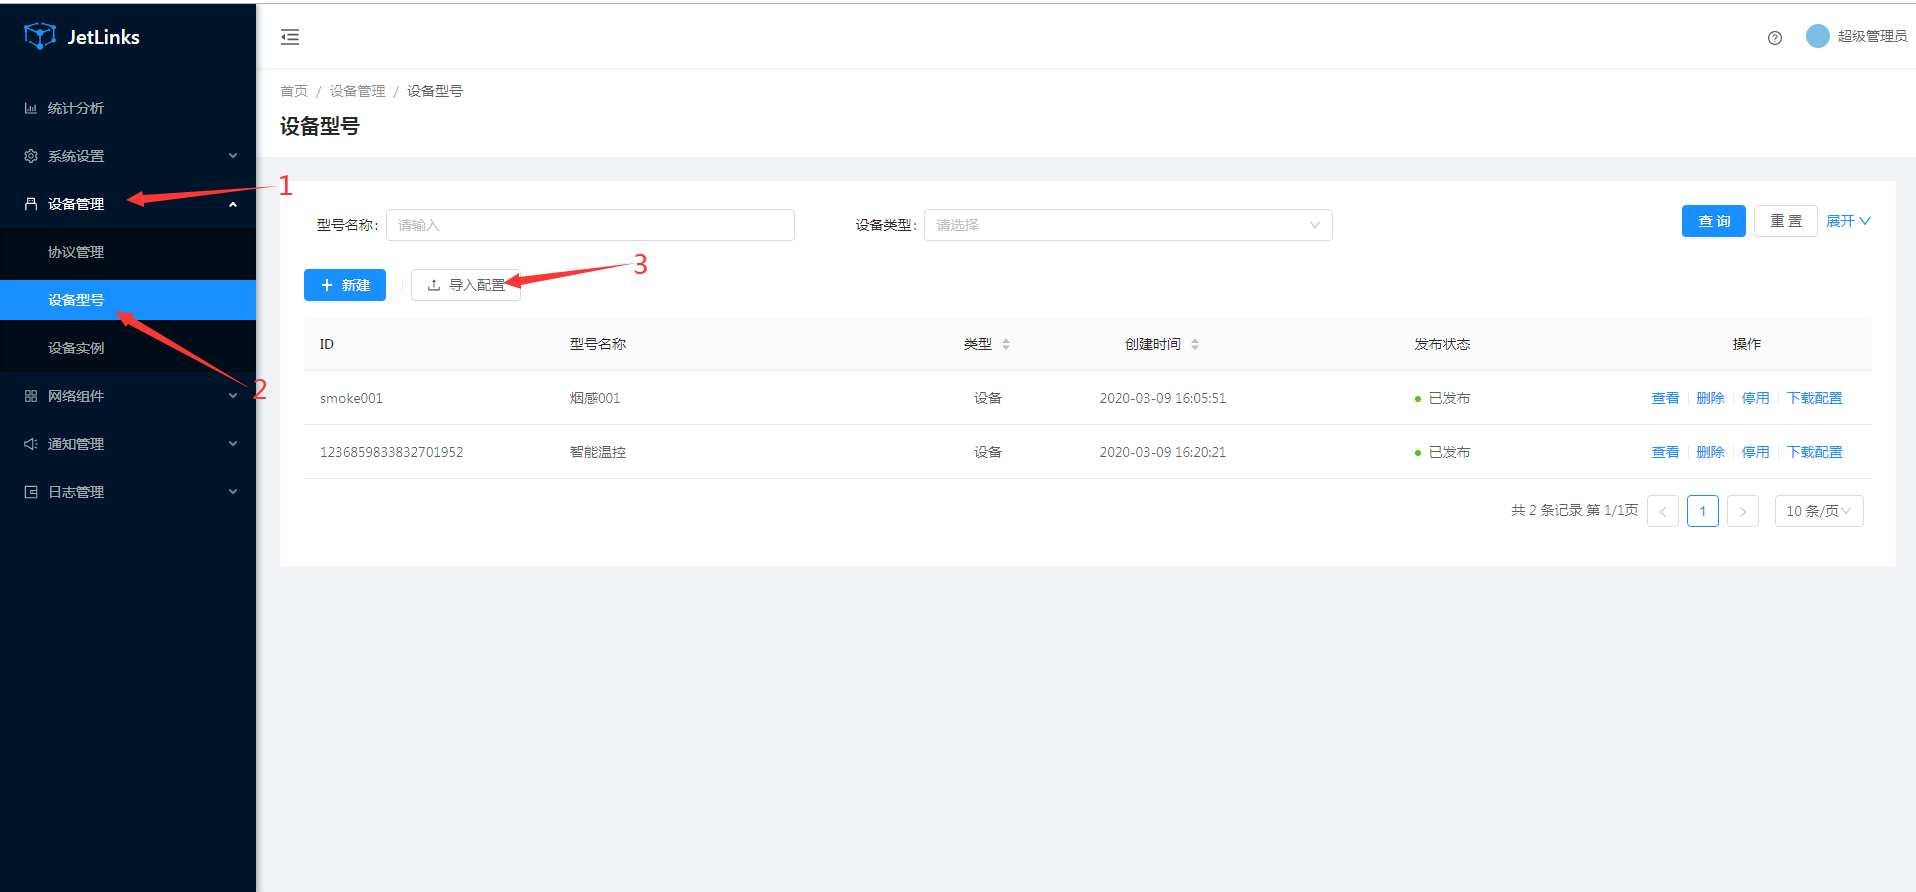
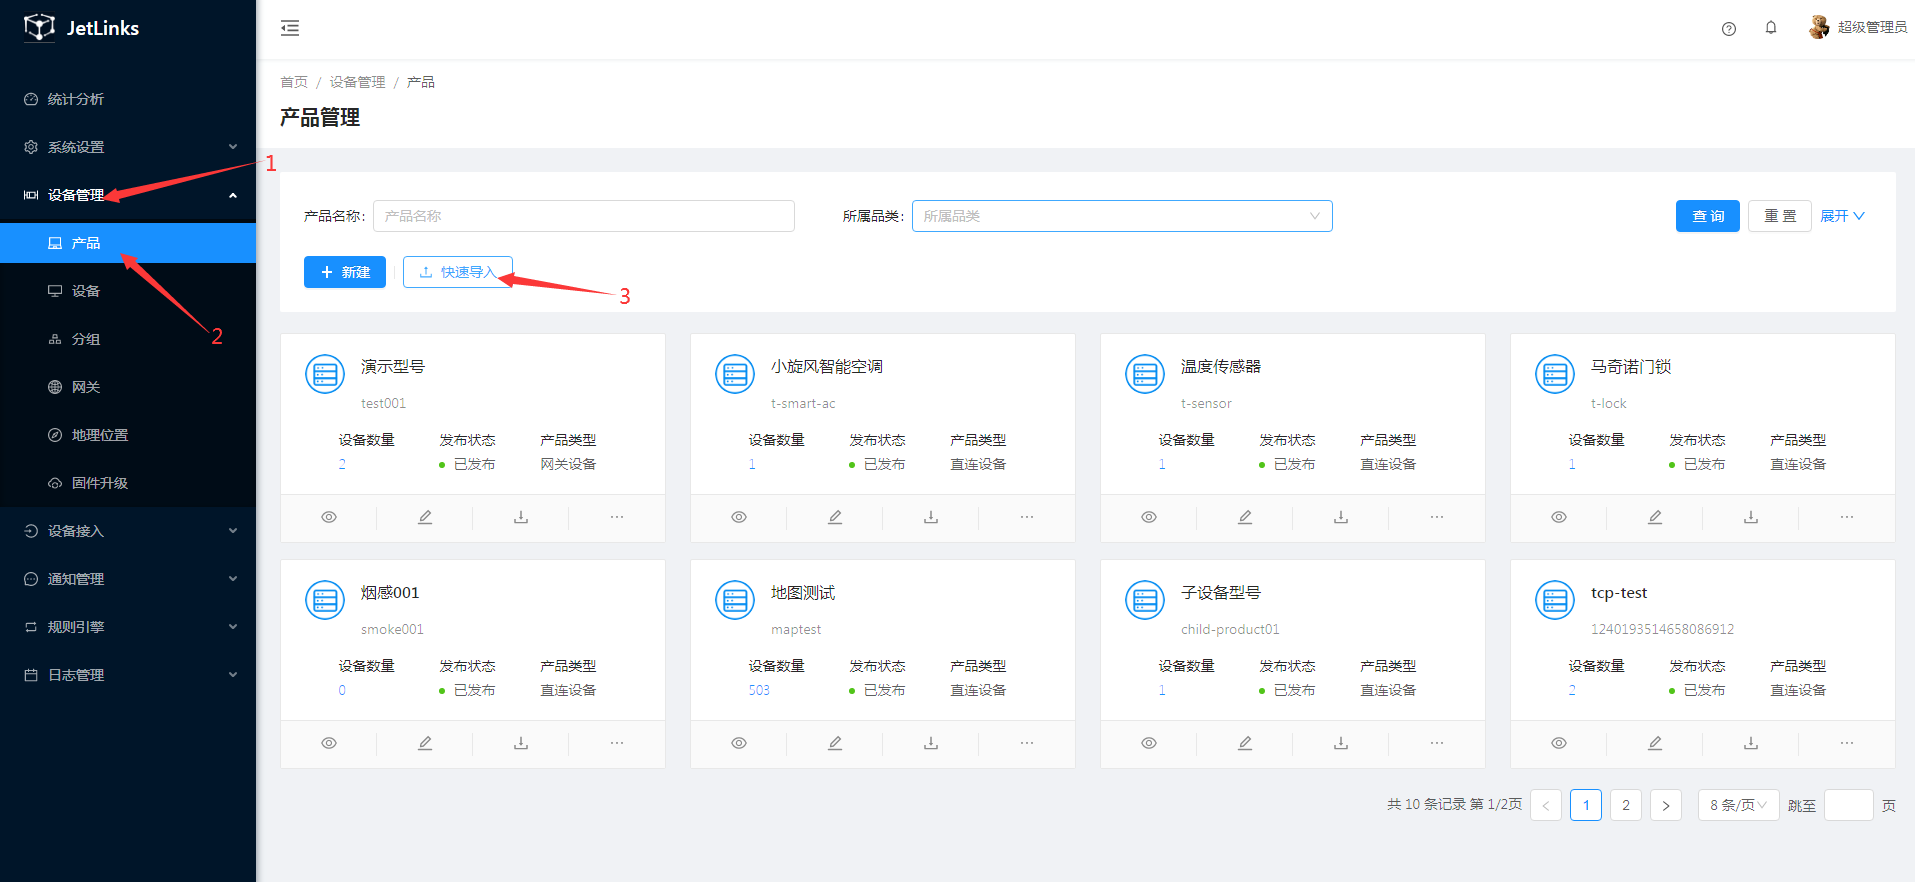
更新名词

diff --git a/basics-guide/device-manager.md b/basics-guide/device-manager.md
@@ -265,41 +265,41 @@ JSON对象参数设置说明如下表。
 ![产品列表信息](images/device/model-list.png)
 
 1. 在产品列表中单击该型号的`编辑`按钮，可以修改基本信息或者是定义的属性、功能、事件。
-2. 在产品列表中单击该型号的`发布`按钮，将该产品注册到注册中心，添加设备实例时将会查询到该产品。
-   + 产品发布后,状态将变为`已发布`状态，已发布的产品或者是已绑定设备实例的产品将不支持删除。
+2. 在产品列表中单击该型号的`发布`按钮，将该产品注册到注册中心，添加设备时将会查询到该产品。
+   + 产品发布后,状态将变为`已发布`状态，已发布的产品或者是已绑定设备的产品将不支持删除。
 3. 在产品列表中单击该型号的`删除`按钮，将物理删除该产品。
    + `已发布`状态的产品将不显示`删除`按钮。
-   + 取消发布后如果产品已关联设备实例，点击`删除`按钮时将提示：`删除失败:该型号已绑定实例,无法删除`。
+   + 取消发布后如果产品已关联设备，点击`删除`按钮时将提示：`删除失败:该型号已绑定实例,无法删除`。
 4. 在产品列表中单击该型号的`下载配置`按钮，可以将该产品的配置信息导出成一个json文件，文件内容为JSONString形式保存。
 5. 在产品列表中单击该型号的`导入配置`按钮，可以将导出的产品配置json文件导入至平台内，如果平台内存在相同ID主键的型号将会去修改相同主键的产品信息，反之就在平台内新增一条新的产品信息。
 6. 在产品列表中单击该型号的`导出配置`按钮，将导出所有产品配置信息导出成一个json文件，文件内容为JSONString形式保存，也可以根据查询条件进行查询导出，导出界面所见所得数据。
 
 ## 设备
 
-### 添加设备实例
+### 添加设备
 
 1. 登录物联网管理平台。
-2. 在左侧导航栏，选择设备管理 > 设备实例。
-3. 在设备实例管理页面设备实例列表中，单击设备实例所对应的`新建实例`操作按钮。
+2. 在左侧导航栏，选择设备管理 > 设备。
+3. 在设备管理页面设备列表中，单击设备所对应的`添加设备`操作按钮。
 4. 在弹出对话框中，填写设备所需的基本信息即可。设置参数完成后，单击`保存`。
 
-![设备实例基本信息](images/device/device-info.png)
+![设备基本信息](images/device/device-info.png)
 
-设备实例参数设置说明如下表。
+设备参数设置说明如下表。
 
 | 参数 | 描述 |
 | :--------------:  | ------------- |
-| 设备ID      |唯一标识符，在设备实例中具有唯一性。可包含英文、数字、下划线，长度不超过32个字符，例如PowerComsuption。`不填写将由系统自动生成`|
-| 设备名称      | 设备实例的名称，例如`XXX门锁`。支持中文、大小写字母、数字、短划线和下划线，且必须以中文、英文或数字开头，不超过32个字符。|
-| 产品      | 产品中发布后的产品在此处就能选择。新创建的设备实例将继承该产品定义好的属性、功能、事件。|
+| 设备ID      |唯一标识符，在设备中具有唯一性。可包含英文、数字、下划线，长度不超过32个字符，例如PowerComsuption。`不填写将由系统自动生成`|
+| 设备名称      | 设备的名称，例如`XXX门锁`。支持中文、大小写字母、数字、短划线和下划线，且必须以中文、英文或数字开头，不超过32个字符。|
+| 产品      | 产品中发布后的产品在此处就能选择。新创建的设备将继承该产品定义好的属性、功能、事件。|
 | 所属机构      |设备所属的机构，一个平台存在多个部门同时操作，能保证用户操作的设备是自己所在的机构下的设备。|
 | 说明      | 输入文字，对该事件进行说明或备注。长度限制为100字。|
 
 #### 设备管理
 
-![设备实例列表信息](images/device/device-list.png)
+![设备列表信息](images/device/device-list.png)
 
-设备实例信息说明如下表。
+设备信息说明如下表。
 
 | 参数 | 描述 |
 | :--------------: | ------------- |
@@ -308,8 +308,8 @@ JSON对象参数设置说明如下表。
 | 删除具体设备信息      | 单击对应设备的删除按钮。删除为物理删除，暂不支持逻辑删除<br>`备注：已激活设备不显示"删除"按钮`。|
 | 编辑具体设备信息      | 单击对应设备的编辑按钮。|
 | 激活具体设备      | 单击对应设备的编辑按钮。新增设备状态为`未激活`，点击`激活`按钮先将设备激活。激活后设备未在线将显示`离线`状态，操作按钮将显示`取消激活`。|
-| 下载导入模板      | 设备实例支持批量导入，下载导入Excel表格模板。<br>`备注：暂只支持Excel表格`。|
-| 批量导入设备实例      | 下载导出模板后在Excel表格内填写需要导入的设备实例的基本信息，然后点击界面`导入实例`按钮，选择填写好的Excel表格等待导入完成即可。|
+| 下载导入模板      | 设备支持批量导入，下载导入Excel表格模板。<br>`备注：暂只支持Excel表格`。|
+| 批量导入设备      | 下载导出模板后在Excel表格内填写需要导入的设备的基本信息，然后点击界面`导入实例`按钮，选择填写好的Excel表格等待导入完成即可。|
 | 激活全部设备      | 批量导入设备数量不可控，有可能几万或者更多，那么这些需要激活设备就只能通过`一键激活`的方式将设备进行激活。|
 | 同步设备状态      | 同步列表中设备在设备注册中心中的状态到数据库。|
 
@@ -317,30 +317,30 @@ JSON对象参数设置说明如下表。
 
 在设备列表中，单击设备对应的查看按钮，进入设备详情页。
 
-![设备实例认证后的基本信息1](images/device/device-find-info1.png)
-![设备实例认证后的基本信息2](images/device/device-find-info2.png)
+![设备认证后的基本信息1](images/device/device-find-info1.png)
+![设备认证后的基本信息2](images/device/device-find-info2.png)
 
-设备实例信息说明如下表。
+设备信息说明如下表。
 
 | 参数 | 描述 |
 | :--------------: | ------------- |
 | 查看设备信息      |查看设备基本信息，包括产品信息、扩展信息、标签信息等内容。|
-| 查看设备运行状态      | 在设备实例激活并上线后运行状态页签下，查看设备当前状态、产品配置的属性、事件等信息。<br>如果是事件可查看事件所上报的数据详情信息。|
+| 查看设备运行状态      | 在设备激活并上线后运行状态页签下，查看设备当前状态、产品配置的属性、事件等信息。<br>如果是事件可查看事件所上报的数据详情信息。|
 | 查看设备日志      | 设备行为、上行消息、下行消息等消息内容，点击`详情内容`可查看具体日志的详细内容。|
 
-设备实例信息说明如下表。
+设备信息说明如下表。
 
 | 参数 | 描述 |
 | :--------------: | ------------- |
-| ID      |唯一标识符，在设备实例中具有唯一性，例如PowerComsuption。|
-| 型号      | 设备实例的名称，例如`XXX门锁`。支持中文、大小写字母、数字、短划线和下划线，且必须以中文、英文或数字开头，不超过32个字符。|
-| 状态      | 设备实例的当前状态。当前状态分为：未激活、在线、离线。|
+| ID      |唯一标识符，在设备中具有唯一性，例如PowerComsuption。|
+| 型号      | 设备的名称，例如`XXX门锁`。支持中文、大小写字母、数字、短划线和下划线，且必须以中文、英文或数字开头，不超过32个字符。|
+| 状态      | 设备的当前状态。当前状态分为：未激活、在线、离线。|
 
-设备实例关联产品以后,在设备实例查看页面也将显示产品信息，说明如下表。
+设备关联产品以后,在设备查看页面也将显示产品信息，说明如下表。
 
 | 参数 | 描述 |
 | :--------------: | ------------- |
-| 设备名称      | 产品中发布后的产品在此处就能选择。新创建的设备实例将继承该产品定义好的属性、功能、事件。|
+| 设备名称      | 产品中发布后的产品在此处就能选择。新创建的设备将继承该产品定义好的属性、功能、事件。|
 | 分类目录      |为产品分类，能更方便的管理产品。类似于分组。|
 | 消息协议      |不同厂商不同的设备所用的消息传输协议不同，平台定义好消息协议后平台将根据所设定的消息协议格式进行解析设备所上报的数据。|
 | 连接协议      |1. MQTT：MQTT是一个基于客户端-服务器的消息发布/订阅传输协议。MQTT协议是轻量、简单、开放和易于实现的，这些特点使它适用范围非常广泛。在很多情况下，包括受限的环境中，其在通过卫星链路通信传感器、偶尔拨号的医疗设备、智能家居、及一些小型化设备中已广泛使用。<br>2. MQTT TLS：MQTT使用UDP上的数据报TLS协议来进行加密。<br>3. CoAP：Coap（Constrained Application Protocol）是一种在物联网世界的类web协议，它的详细规范定义在 RFC 7252。COAP名字翻译来就是“受限应用协议”，顾名思义，使用在资源受限的物联网设备上。物联网设备的ram，rom都通常非常小，运行TCP和HTTP是不可以接受的。<br>4. CoAP DTLS：CoAP使用UDP上的数据报TLS协议（DTLS）来进行加密。|
@@ -349,14 +349,14 @@ JSON对象参数设置说明如下表。
 
 #### 运行状态
 
-![设备实例运行状态信息](images/device/device-running-state.png)
+![设备运行状态信息](images/device/device-running-state.png)
 
 1. 记录展示设备当前状态以及用户自定义的产品内的属于以及事件信息。
 2. 展示设备上报事件的详情`不同设备类型配置的设备属性、事件不同所展示的内容都有所不同`。
 
 #### 设备日志
 
-![设备实例日志信息](images/device/device-log.png)
+![设备日志信息](images/device/device-log.png)
 
 1. 展示设备行为、上行消息、下行消息等消息内容，点击`详情内容`可查看具体日志的详细内容。
 2. 日志`详情内容`将显示设备行为、上行消息、下行消息等消息内容的详细内容。

diff --git a/advancement-guide/mqtt-connection.md b/advancement-guide/mqtt-connection.md
@@ -8,7 +8,7 @@
 
 **例**
 
-i. 选择 `设备管理`-->`协议管理`--> 点击`新建协议`按钮
+i. 选择 `设备接入`-->`协议管理`--> 点击`新建协议`按钮
 
 ![新建协议导航](../basics-guide/files/device-connection/new-protocol.png)
 
@@ -26,15 +26,15 @@ vi. 点击保存，完成协议新增。
 
 ![新建型号协议](../basics-guide/files/device-connection/product-protocol.png)
 
-## 创建设备型号
+## 创建产品
 
-> 完整的设备型号创建，请参考[添加设备型号](../basics-guide/device-manager.md#添加设备型号)。
+> 完整的产品创建，请参考[添加设备型号](../basics-guide/device-manager.md#添加产品)。
 
 **例**
 
 i.下载型号文件[配置JSON](../basics-guide/files/device-connection/设备型号-智能温控.json)
 
-ii. 选择 `设备管理`-->`设备型号`--> 点击`导入配置`按钮
+ii. 选择 `设备管理`-->`产品`--> 点击`导入配置`按钮
 
 ![导入型号导航](../basics-guide/files/device-connection/import-product.png)
 
@@ -70,33 +70,33 @@ iii. 点击属性定义、事件定义对应操作下的编辑按钮查看更详
 事件定义参数：  
 ![型号信息3](../basics-guide/files/device-connection/device-product-info3.png)
 
-## 创建设备实例
+## 创建设备
 
-> 自定义创建设备实例，请参考[添加设备实例](../basics-guide/device-manager.md#添加设备实例)。
+> 自定义创建设备，请参考[添加设备](../basics-guide/device-manager.md#添加设备)。
 
 **例**
 
-i. 下载设备实例Excel文件[设备实例Excel](../basics-guide/files/device-connection/智能温控测试设备.xlsx)
+i. 下载设备Excel文件[设备Excel](../basics-guide/files/device-connection/智能温控测试设备.xlsx)
 
-ii. 选择 `设备管理`-->`设备实例`--> 点击`导入实例`按钮
+ii. 选择 `设备管理`-->`设备`--> `其他批量操作`-->`批量导入设备`
 
 ![导入设备导航](../basics-guide/files/device-connection/import-device.png)
 
-iii. 选择需要导入的设备型号,点击文件上传  
+iii. 选择需要导入的产品,点击文件上传  
 
 ![选择型号](../basics-guide/files/device-connection/choose-device-product.png)  
 
-iv. 选择[设备实例Excel](../basics-guide/files/device-connection/智能温控测试设备.xlsx)文件
+iv. 选择[设备Excel](../basics-guide/files/device-connection/智能温控测试设备.xlsx)文件
 
-v. 设备实例导入完成效果如下图
+v. 设备导入完成效果如下图
 
 ![未激活的设备](../basics-guide/files/device-connection/device-instance-not-active.png)
 
-vi. 点击上图中`激活`链接完成设备实例激活，状态栏中发布状态变为`离线`代表设备激活成功。
+vi. 点击上图中`激活`链接完成设备激活，状态栏中发布状态变为`离线`代表设备激活成功。
 
 ![已激活的设备](../basics-guide/files/device-connection/device-instance-offline.png)
 
-### 创建成功的设备实例信息展示
+### 创建成功的设备信息展示
 
 i. 设备基本信息
 
@@ -157,7 +157,7 @@ MQTT Broker Profile Settings
 | :-----   | :-----  |
 | Broker Address       | 连接域名。本地连接可直接填写 `127.0.0.1`,如为远程连接，请填写远程连接地址 |
 | Broker Port        |   设置为`1889`   |
-| Client ID        |    设备Id。本文档中为演示设备实例`test001`   |
+| Client ID        |    设备Id。本文档中为演示设备`test001`   |
 
 General栏目下的设置项可保持系统默认，也可以根据您的具体需求设置。
 
@@ -223,7 +223,7 @@ iii.  单击Subscribe，订阅这个topic
 
 iv. 平台发送订阅操作
 
-单击设备实例页面中`test001`设备对应的`查看`链接
+单击设备页面中`test001`设备对应的`查看`链接
 
 选择弹出框中`运行状态板块`
 
@@ -320,7 +320,7 @@ MQTT.fx 推送设备事件消息到平台
 | 参数         | 说明    |
 | :-----   | :-----  |
 | deviceId       | 设备Id   |
-| pname        |   设备型号名称   |
+| pname        |   产品名称   |
 | aid        |   区域Id   |
 | a_name        |   区域名称   |
 | b_name        |   建筑名称   |
@@ -368,7 +368,7 @@ MQTT.fx 推送设备事件消息到平台
 三是map类型，如：`{"lat":36.523,"lon":102.321}`。  
 :::
 
-4. 上报成功后将在设备实例的运行状态中显示。  
+4. 上报成功后将在设备的运行状态中显示。  
 
 ![地理位置展示](../basics-guide/files/device-connection/device-info-geo.png)  
 
@@ -380,3 +380,5 @@ MQTT.fx 推送设备事件消息到平台
 物模型中的标签也可创建geo类型，但不可通过标签上报地理位置信息，只能通过属性上报。  
 地理位置标签将主要运用在地图查询中。  
 :::
+
+
